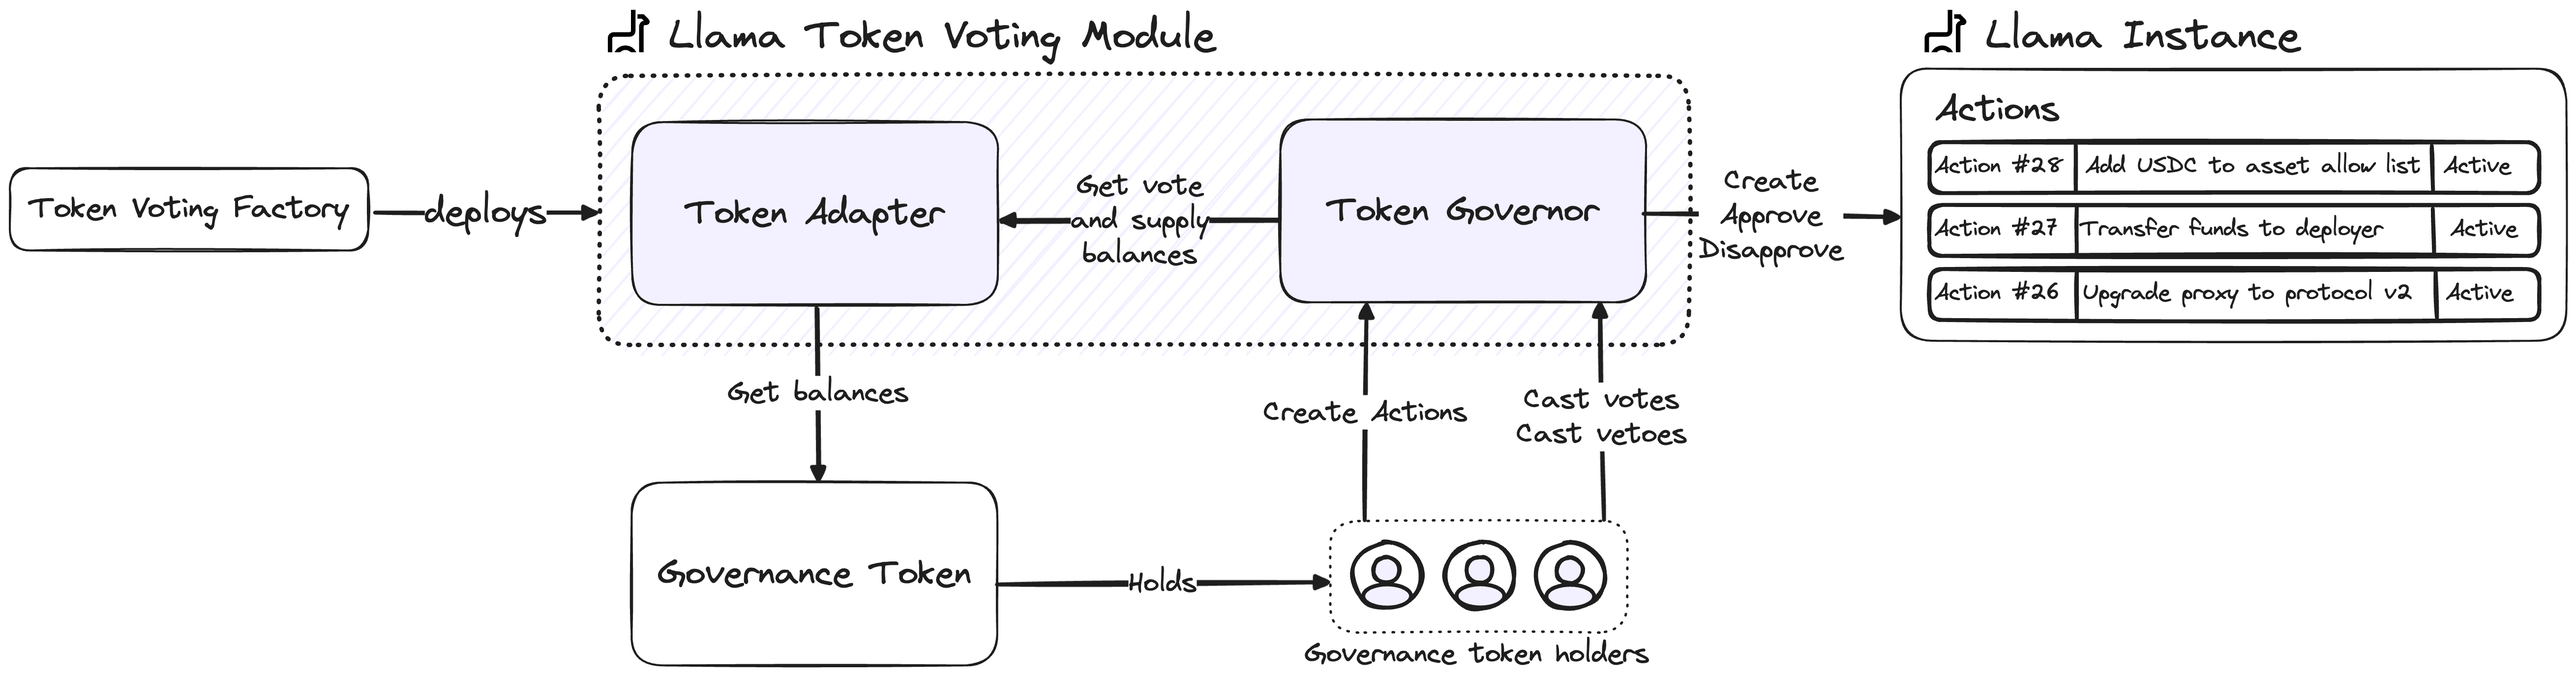
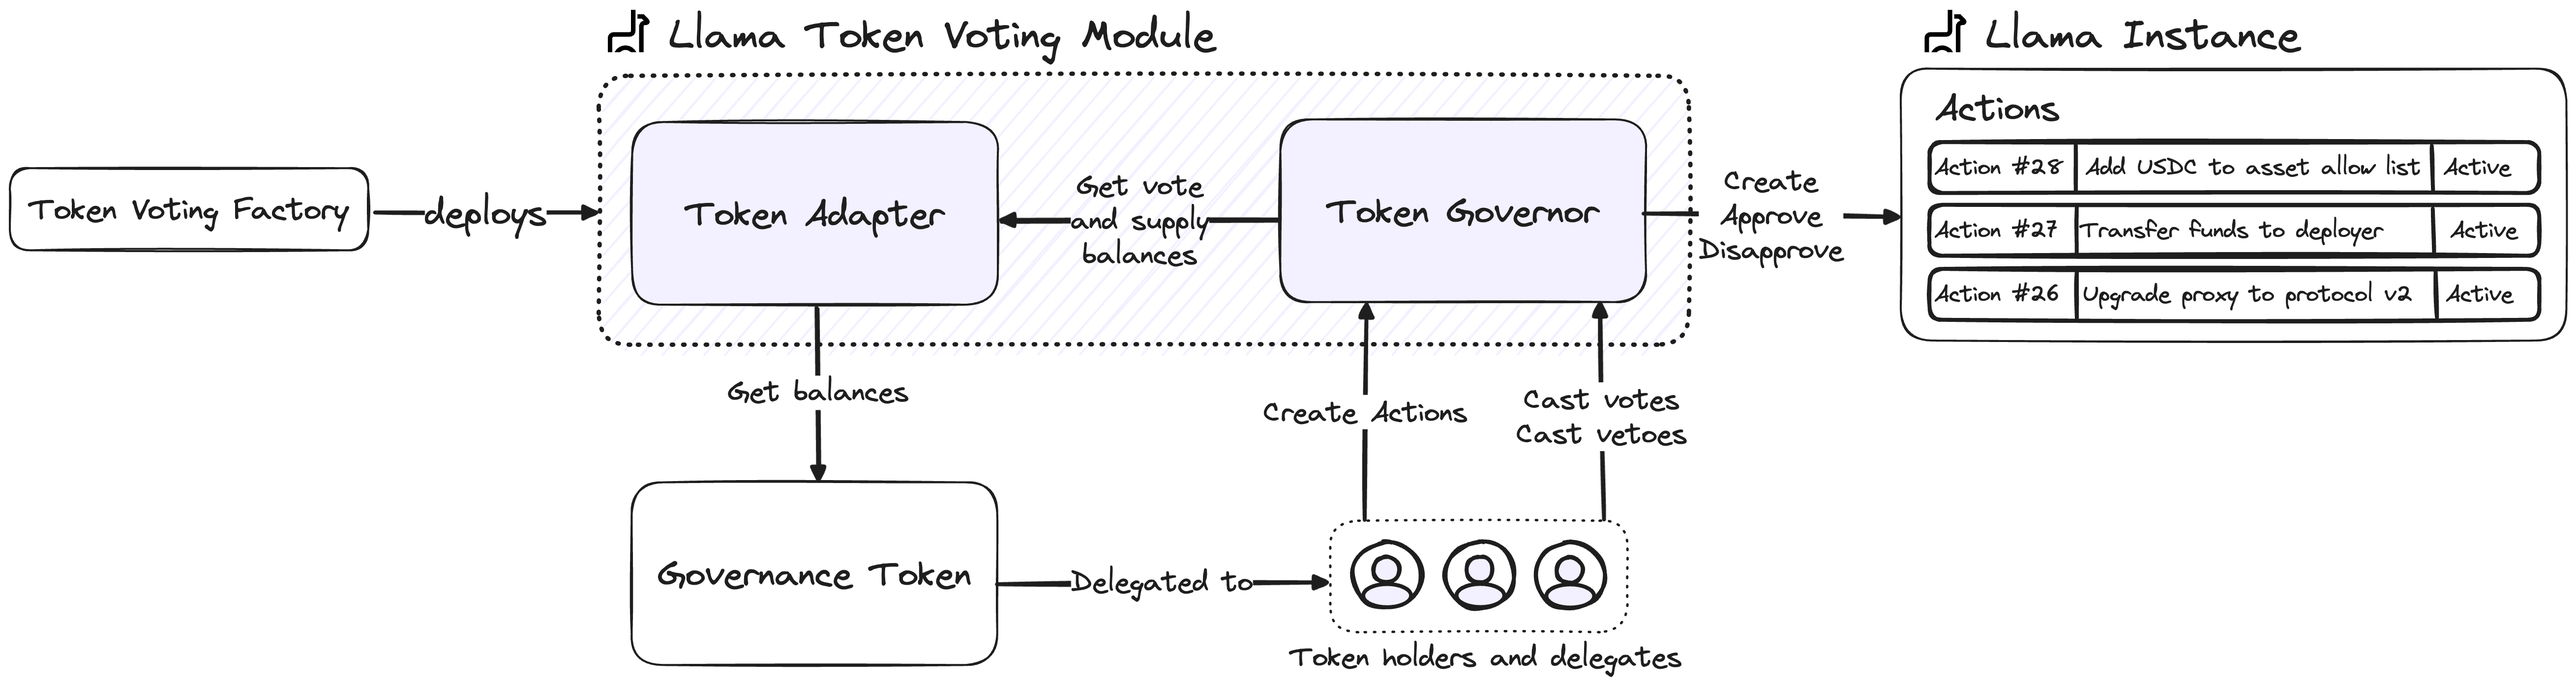
add token voting docs

diff --git a/docs/token-voting/token-voting-module.md b/docs/token-voting/token-voting-module.md
@@ -4,13 +4,19 @@
 
 The Llama token voting module includes a `LlamaTokenGovernor` and `LlamaTokenAdapter` pair that is deployed by the [token voting factory](https://github.com/llamaxyz/llama/blob/main/docs/token-voting/token-voting-factory.md).
 
-The associated Llama instance can create a dedicated "Token Governor" role and assign it to the deployed token governor contract, so token holders can create actions and collectively cast approvals or disapprovals.
+The associated Llama instance can create a dedicated "Token Governor" role and assign it to the deployed token governor contract.
+This role can be granted permissions, so delegates can create actions on the associated Llama instance.
+This role can also be used in strategies, so delegates can collectively approve and disapprove actions on the associated Llama instance.
+
+Each token voting module is associated with a Llama instance and a governance token that is used to get the historical total supply and account voting balances.
+The module can only create, approve, and disapprove actions on the associated Llama instance.
+Llama instances can assign policies to multiple token voting modules to design strategies that require approval by delegates of multiple tokens.
 
 ## Creating Actions
 
-Token holders can create actions on the associated Llama instance if they have a sufficient token balance.
+Governance token delegates can create actions on the associated Llama instance if they have a sufficient voting balance.
 
-The `creationThreshold` is the number of tokens required to create an action. This value can be updated.
+The `creationThreshold` is the number of tokens required to create an action. This value can be updated by the instance.
 
 To create an action, a user must call the `createAction` function on the token governor which has the following fields:
 
@@ -23,7 +29,7 @@ To create an action, a user must call the `createAction` function on the token g
     string description
 ```
 
-- **Role:** The role that will be used to determine the permission ID of the `LlamaTokenGovernor`.
+- **Role:** A role assigned to the token governor that will be used to create the action.
 - **Strategy:** The strategy contract that will determine how the action is executed.
 - **Target:** The contract called when the action is executed.
 - **Value:** The value in wei to be sent when the action is executed.

diff --git a/docs/token-voting/token-voting-factory.md b/docs/token-voting/token-voting-factory.md
@@ -4,16 +4,16 @@ The `LlamaTokenVotingFactory` contract enables the deployment of token voting mo
 
 ## Deployment
 
-Token voting modules are configured using the [LlamaTokenVotingConfig struct](https://github.com/llamaxyz/llama-periphery/blob/main/src/lib/Structs.sol#L82). It is the factory's `deploy` function's only parameter.  
+Token voting modules are configured and deployed by calling the `deploy` function on the factory with a [LlamaTokenVotingConfig](https://github.com/llamaxyz/llama-periphery/blob/main/src/lib/Structs.sol#L82) struct as the only parameter.
 
-The struct includes values such as the action creation token threshold, relative voting period length, and the vote quorum.
+The struct includes values such as the action creation delegated token threshold, period lengths defined as percentages, and the vote and veto quorum percentages.
 
-The `deploy` function also uses the provided adapter logic contract and config to clone a token adapter contract. This token adapter is used by the token governor to standardize the functions for retrieving the historical total token supply and voting balances. 
+The `deploy` function also uses the provided token adapter logic contract and token adapter config to clone a new token adapter contract. This token adapter is used by the token governor to standardize the functions for retrieving the past total token supply and voting balances. 
 
 ## Integrating with a Llama instance
 
-Once the token voting module has been deployed, an existing Llama instance can create a policy with a dedicated role and assign it to the token governor's address.
+Once a token voting module has been deployed, an existing Llama instance can create a policy with a dedicated role and assign it to the token governor's address.
 
-This role can be granted permissions, so token holders can create actions if they surpass the creation threshold.
+This role can be granted permissions, so token holders can create actions if they meet the creation threshold.
 
-This role can also be used by strategies to grant token holders the ability to approve or disapprove actions.
+This role can also be used by strategies to grant token holders the ability to collectively approve and disapprove actions.

diff --git a/docs/README.md b/docs/README.md
@@ -6,14 +6,14 @@ Llama is an onchain governance and access control framework for smart contracts.
 
 Using Llama, teams can deploy fully independent instances that define granular roles and permissions for executing transactions, known as "actions".
 
-Llama instances can adapt over time by adding new participants and expanding the set of available actions. Actions can be any operation that is represented by invoking a smart contract function. This includes transferring funds, updating a registry, changing protocol parameters, or activating an emergency pause.
+Llama instances can expand over time by adding new participants and expanding the set of available actions. Actions can be any operation that is represented by invoking a smart contract function. This includes transferring funds, updating a registry, changing protocol parameters, or activating an emergency pause.
 
 Learn more about Llama by reading [the protocol documentation](https://github.com/llamaxyz/llama/tree/main/docs).
 
 ## What is Llama Periphery?
 
-This repository contains supporting modules for operating Llama instances. Modules are extensions to Llama instances that can be adopted by using a Llama action to configure and deploy.
+This repository contains supporting modules for operating Llama instances. Modules are extensions to Llama instances that can be adopted by executing an action to configure and deploy the module.
 
 ## Modules
 
-- [Token Voting](https://github.com/llamaxyz/llama-periphery/tree/main/docs/token-voting/README.md): enables governance token holders to create actions enforced by thresholds and collectively vote to approve or disapprove an action.
+- [Token Voting](https://github.com/llamaxyz/llama-periphery/tree/main/docs/token-voting/README.md): enables governance token delegates to create actions enforced by thresholds and collectively approve and disapprove actions.

diff --git a/docs/token-voting/README.md b/docs/token-voting/README.md
@@ -2,7 +2,7 @@
 
 ![Llama Token Voting Module Overview](https://github.com/llamaxyz/llama/blob/main/diagrams/llama-token-voting-module-overview.png)
 
-The Llama token voting module is a Llama instance extension that allows token holders to create actions and collectively cast approvals and disapprovals. It follows established token voting framework best practices and is deployed through a dedicated factory contract.
+The Llama token voting module allows governance token delegates to create actions and collectively cast approvals and disapprovals on an associated Llama instance. It follows established token voting framework best practices and is deployed through a dedicated factory contract.
 
 Resources:
 
